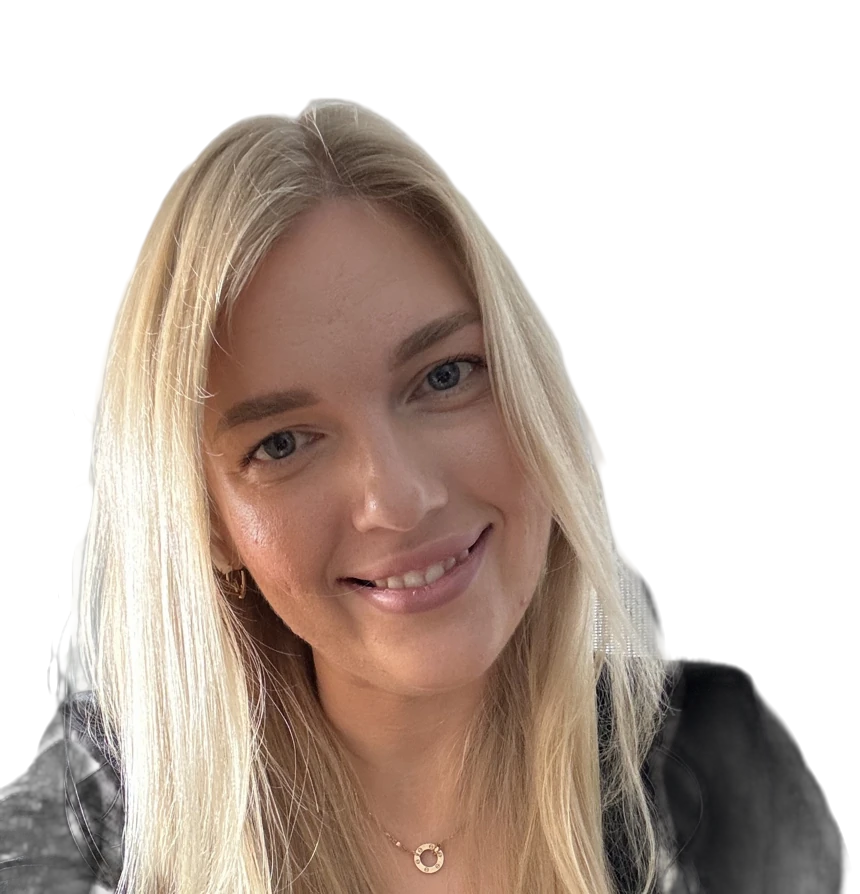
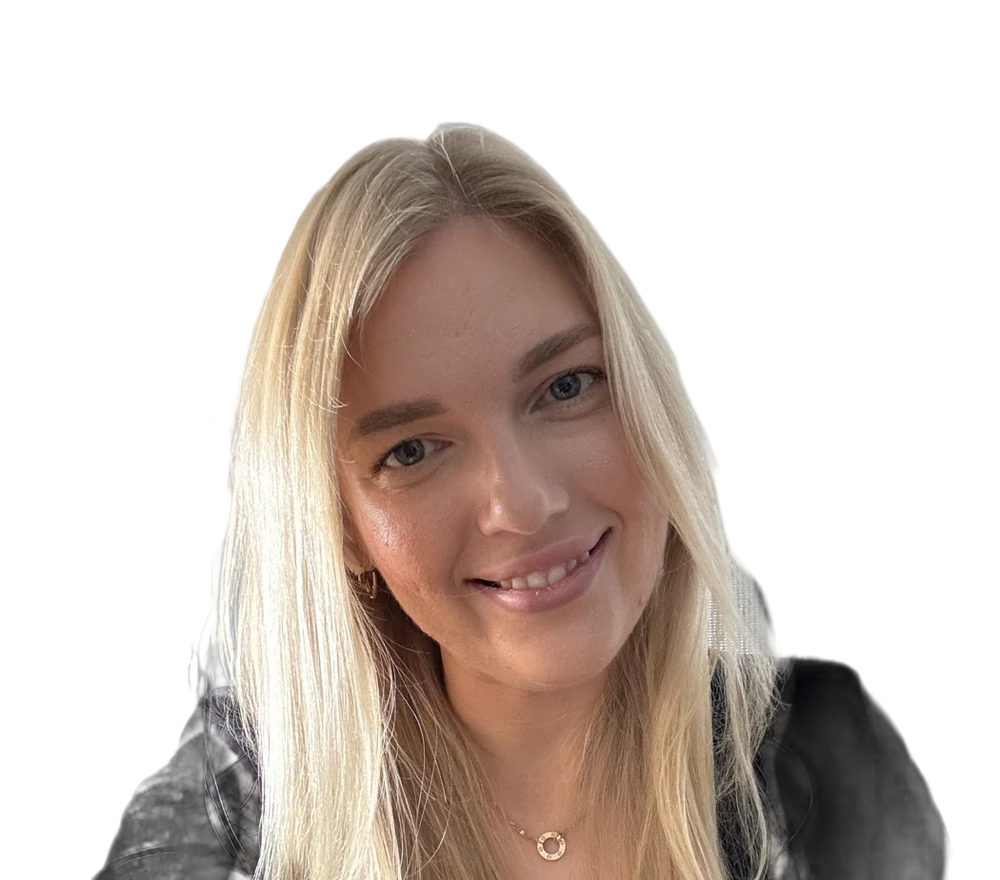
«Обо мне»: один портрет в арке, без коллажа
Claude-Session: https://claude.ai/code/session_0155u3ZyEfwAY5x24SDFsgDT

diff --git a/index.html b/index.html
@@ -176,20 +176,12 @@ h2{font-family:var(--display);font-style:italic;font-weight:400;font-size:clamp(
 .proof figure{margin:0;background:#fff;border:1px solid rgba(196,160,100,.6);border-radius:16px;overflow:hidden;box-shadow:0 18px 34px -24px rgba(78,12,24,.5)}
 .proof img{display:block;width:100%;height:auto}
 .proof figcaption{font-size:10.5px;letter-spacing:.14em;text-transform:uppercase;color:#7a525a;padding:10px 12px;border-top:1px solid rgba(196,160,100,.4);background:#FBF5EE}
-.cover{position:relative;width:100%;max-width:470px;aspect-ratio:4/5;margin:0 auto}
-.cover>*{position:absolute}
-.cover .arch{left:12%;right:12%;top:5%;bottom:9%;border-radius:999px 999px 18px 18px;background:radial-gradient(120% 75% at 50% 22%,#9c2b40,#5a1020 55%,#3f0a15);box-shadow:0 40px 70px -40px rgba(78,12,24,.85)}
-.cover .arch::after{content:"";position:absolute;inset:-10px;border:1px solid rgba(196,160,100,.85);border-radius:999px 999px 26px 26px}
-.cover .halo{left:24%;right:24%;top:10%;height:40%;border-radius:50%;background:radial-gradient(circle,rgba(255,226,170,.62),rgba(255,226,170,0) 70%);animation:halo 5s ease-in-out infinite}
-@keyframes halo{50%{opacity:.6;transform:scale(1.08)}}
-.cover .cut{left:4%;width:92%;height:auto;bottom:9%;-webkit-mask-image:linear-gradient(180deg,#000 82%,transparent 100%);mask-image:linear-gradient(180deg,#000 82%,transparent 100%);filter:drop-shadow(0 16px 20px rgba(30,4,10,.5)) drop-shadow(0 0 1.2px rgba(255,228,180,.8))}
-.cover .script{left:-2%;bottom:3%;font-family:"GV",cursive;font-size:clamp(86px,24vw,138px);line-height:1;transform:rotate(-7deg);background:linear-gradient(180deg,#FBEBC2,#D9B46E 52%,#9E7834);-webkit-background-clip:text;background-clip:text;color:transparent;filter:drop-shadow(0 2px 0 rgba(120,80,30,.55)) drop-shadow(0 12px 18px rgba(78,12,24,.45));padding:0 .12em}
-.cover .pol{margin:0;background:#fff;padding:5px 5px 24px;width:29%;box-shadow:0 20px 30px -14px rgba(78,12,24,.6)}
-.cover .pol img{display:block;width:100%;height:auto;aspect-ratio:4/5;object-fit:cover}
-.cover .pol figcaption{position:absolute;left:0;right:0;bottom:2px;text-align:center;font-family:"GV",cursive;font-size:clamp(17px,4.4vw,23px);color:var(--wine)}
-.cover .p1{right:-3%;top:9%;transform:rotate(7deg)}
-.cover .p2{right:1%;bottom:15%;width:25%;transform:rotate(-6deg)}
-.cover .p1::before,.cover .p2::before{content:"";position:absolute;left:50%;top:-12px;width:11px;height:22px;margin-left:-5px;border-radius:3px;background:linear-gradient(90deg,#9a7432,#F3E1AE,#9a7432);box-shadow:0 2px 3px rgba(0,0,0,.2)}
+.cover{position:relative;width:100%;max-width:430px;aspect-ratio:4/5;margin:0 auto}
+.cover .ring{position:absolute;left:7%;right:7%;top:1.5%;bottom:3%;border:1px solid rgba(196,160,100,.85);border-radius:999px 999px 26px 26px}
+.cover .arch{position:absolute;left:10.5%;right:10.5%;top:5%;bottom:6%;border-radius:999px 999px 18px 18px;overflow:hidden;isolation:isolate;background:radial-gradient(110% 70% at 50% 24%,#a3324a,#5e1222 55%,#3f0a15);box-shadow:0 40px 70px -40px rgba(78,12,24,.85)}
+.cover .halo{position:absolute;left:12%;right:12%;top:8%;height:46%;border-radius:50%;background:radial-gradient(circle,rgba(255,226,170,.6),rgba(255,226,170,0) 70%);animation:halo 5s ease-in-out infinite}
+@keyframes halo{50%{opacity:.65;transform:scale(1.08)}}
+.cover .cut{position:absolute;left:-24%;width:142%;max-width:none;height:auto;bottom:-3%;filter:drop-shadow(0 14px 20px rgba(20,2,6,.5))}
 .sp{position:absolute;width:16px;height:16px;background:#F6DFA4;clip-path:polygon(50% 0,58% 42%,100% 50%,58% 58%,50% 100%,42% 58%,0 50%,42% 42%);filter:drop-shadow(0 0 5px rgba(255,220,150,.95));animation:tw2 3.2s ease-in-out infinite}
 @keyframes tw2{0%,100%{opacity:.2;scale:.6}50%{opacity:1;scale:1}}
 
@@ -317,8 +309,7 @@ footer nav{display:flex;flex-wrap:wrap;gap:8px 22px;margin-bottom:10px}
   .me{grid-template-columns:1fr;gap:28px}
   .me-pics{max-width:440px;margin:0 auto}
   .stats{gap:12px}
-  .cover{max-width:400px}
-  .cover .p1{right:0}
+  .cover{max-width:380px}
   .night{padding-top:110px}
   .stats b{font-size:24px}
   .stats span{font-size:10px;letter-spacing:.1em}
@@ -433,13 +424,9 @@ footer nav{display:flex;flex-wrap:wrap;gap:8px 22px;margin-bottom:10px}
   <section id="me">
     <div class="me">
       <div class="cover" id="cover">
-        <div class="arch" data-d="-.04"></div>
-        <div class="halo" data-d="-.02"></div>
-        <img class="cut" data-d=".03" src="assets/me_cut.webp" alt="Ася, автор Секретного адвента" width="860" height="894" loading="lazy">
-        <figure class="pol p1" data-d=".14"><img src="assets/me_dubai.webp" alt="" width="700" height="875" loading="lazy"><figcaption>Дубай</figcaption></figure>
-        <figure class="pol p2" data-d=".22"><img src="assets/me_phone.webp" alt="" width="700" height="875" loading="lazy"><figcaption>монтирую</figcaption></figure>
-        <div class="script" data-d=".09" aria-hidden="true">Ася</div>
-        <i class="sp" style="left:14%;top:16%"></i><i class="sp" style="left:78%;top:6%;animation-delay:1.1s"></i><i class="sp" style="left:9%;top:56%;animation-delay:2s;transform:scale(.7)"></i>
+        <div class="ring"></div>
+        <div class="arch"><div class="halo"></div><img class="cut" data-d=".05" src="assets/me_cut.webp" alt="Ася, автор Секретного адвента" width="1000" height="880" loading="lazy"></div>
+        <i class="sp" style="left:9%;top:14%"></i><i class="sp" style="left:86%;top:24%;animation-delay:1.2s"></i><i class="sp" style="left:5%;top:62%;animation-delay:2.1s;transform:scale(.7)"></i>
       </div>
       <div class="rv">
         <p class="eyebrow">Кто собрал адвент</p>
